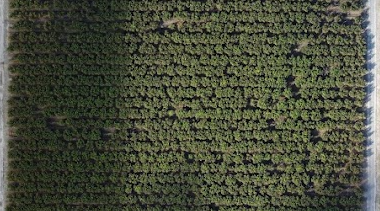
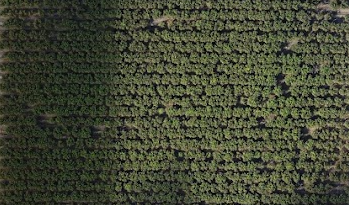
histogram equalization implimented
went from 8.9 stdev with 0.4 mean to 0.2 stdev and 0.03 mean

diff --git a/versions/hufftest.py b/versions/hufftest.py
@@ -22,30 +22,39 @@ from linedrawer import drawlines, drawlinesp
 #v0.3 has issues because of cannying the kmeans
 #when no quantization: kmeans 6 and above causes issues (no images, too much removed etc)
 #with quantization this doesnt occur, k of 12+ still generates WORKING IMAGES, HAZA! i guess.
-#the idea image would always be at 45 degrees. anomalous images have high stdev (0.7) and clean have low (0.08)
+#the ideal image would always be at 45 degrees. anomalous images have high stdev (0.7) and clean have low (0.08)
 
 #default_file = 'sourceimages/window.png' #example with good, but is a png so cant use
 
-default_file = 'sourceimages/bad2-45.png' #example with high standard deviation = bad ( high stdev )
+#default_file = 'sourceimages/bad2-45.png' #example with high standard deviation = bad ( high stdev )
 #default_file = 'sourceimages/bad2.png' #example where being horizontal (or vertical) messes with results. ( low stdev )
 #default_file = 'sourceimages/real2.png' #example of real test thats good ( low stdev )
 
-#default_file = 'sourceimages/real.png' #example of real test thats bad but should be good ( with shadows )
+default_file = 'sourceimages/real.png' #example of real test thats bad but should be good ( with shadows )
 #default_file = 'sourceimages/window3.png' #example of real test ( horrible spaced trees )
 
+#default_file = 'sourceimages/small.png' #example of real test ( horrible spaced trees ) but windowed, so good.
+
+#default_file = 'sourceimages/mess.png' #is anomaly, says its not based on stdev, line count too low = anomoly
+#default_file = 'sourceimages/bent.png' #example of real test thats bad but should be good ( with shadows )
+
 def kmeans(input_image):
+    #A kmeans clusters algorithm that takes in an image (ideally grayscale) and applies a binerization to them.
     print("Kmeans")
     #kmeans ---------------------
+
+    #for when the passed image is actually the name not the array of the image (ie when called first in a modular situation)
+    if isinstance(input_image, str):
+        input_image = cv.imread(input_image) # Loading image
     
-    image = cv.imread(cv.samples.findFile(default_file)) # Loading image
-    image = cv.cvtColor(image, cv.COLOR_BGR2RGB) # Change color to RGB (from BGR) 
+    image = cv.cvtColor(input_image, cv.COLOR_BGR2RGB) # Change color to RGB (from BGR) 
     # Reshaping the image into a 2D array of pixels and 3 color values (RGB) 
     pixel_vals = image.reshape((-1,3)) 
     # Convert to float type only for supporting cv2.kmean
     pixel_vals = np.float32(pixel_vals)
 
     criteria = (cv.TERM_CRITERIA_EPS + cv.TERM_CRITERIA_MAX_ITER, 100, 1.0) #criteria
-    k = 3 # Choosing number of cluster
+    k = 5 # Choosing number of cluster
     retval, labels, centers = cv.kmeans(pixel_vals, k, None, criteria, 100, cv.KMEANS_RANDOM_CENTERS) 
 
     
@@ -84,12 +93,33 @@ def kmeans(input_image):
     # ------------------ kmeans
     return segmented_image #the kmeans image
 
+def histogramEqualization(input_image):
+    #A histogram equalization function that takes in an input image and equalizes the colour variance. 
+    #Recommended by Patrick to fix the issue where some tif have heavy shading due to cliffs/clouds.
+    #Ideally takes in a grayscale image.
+    print("Histogram Equalization")
+
+    #for when the passed image is actually the name not the array of the image (ie when called first in a modular situation)
+    if isinstance(input_image, str):
+        input_image = cv.imread(input_image) # Loading image
+
+    c_image = cv.cvtColor(input_image, cv.COLOR_BGR2GRAY) # convert to grayscale
+    histo_image = cv.equalizeHist(c_image)
+    print("Histogram Equalization Complete")
+    return histo_image
+
 def colourQuantize(input_image):
-    quantize_count = 12
+    #reduces the colour spectrum from 255*255*255 colour variations to 3*3*3 total variations
+    #ideally takes in NON grayscale image, RGB only. (or 3 channel images)
+    quantize_count = 12 #how many variation to reduce to. static value because i planned to try out more than 12 combinations.
     #take in an image and reduce it down to max of 12 channel types, [0 64 128 255] for r,g,b
     print("Colour Quantization")
-    quantized_image = cv.imread(input_image) # Loading image
-    quantized_image = cv.cvtColor(quantized_image, cv.COLOR_BGR2RGB) # Change color to RGB (from BGR) 
+
+    #for when the passed image is actually the name not the array of the image (ie when called first in a modular situation)
+    if isinstance(input_image, str):
+        input_image = cv.imread(input_image) # Loading image
+    
+    quantized_image = cv.cvtColor(input_image, cv.COLOR_BGR2RGB) # Change color to RGB (from BGR) 
 
     if(quantize_count == 12): #default case when you want 12 total channel types
         for n in range(len(quantized_image)):
@@ -125,6 +155,7 @@ def colourQuantize(input_image):
     return quantized_image
 
 def getThetaData(lines):
+    #give a lines list from opencv to get a list of slope values
     #for standard hough lines
     rho_data = []
     theta_data = []
@@ -138,6 +169,7 @@ def getThetaData(lines):
     return theta_data
 
 def getThetaDataP(linesP):
+    #give a lines list from opencv to get a list of slope values
     #for the probabilistic opencv hough line version.
     theta_datap = []
     if linesP is not None:
@@ -154,6 +186,7 @@ def getThetaDataP(linesP):
     return theta_datap
 
 def graphTheta(theta_data):
+    #creates a simple line graph of slope values
     theta_data.sort()
     intervals = []
     for i in range(len(theta_data)):
@@ -173,6 +206,7 @@ def graphTheta(theta_data):
     return 0
 
 def cleanINFdata(data):
+    #simple fix to inf data when determining slope
     for i in range(len(data)):
         if data[i]>100:
             data[i] = 100
@@ -181,14 +215,14 @@ def cleanINFdata(data):
     return data
 
 def main():
-
-    prek = colourQuantize(default_file)
+    # Loads an image
+    src = cv.imread(cv.samples.findFile(default_file))
+    histo = histogramEqualization(src)
+    prek = colourQuantize(src)
     #kmeans ---------------------
     kmean_image = kmeans(prek)
     # ------------------ kmeans
     
-    # Loads an image
-    src = cv.imread(cv.samples.findFile(default_file))
     #output canny (not good)
     #easy placeholder until morphological pruning
     dst = cv.Canny(kmean_image, 20, 100, None, 3)
@@ -202,7 +236,7 @@ def main():
     drawlines(cdst,lines)
     
     #draw lines on image - probabalistic
-    linesP = cv.HoughLinesP(dst, 1, np.pi / 180, 50, None, 30, 10)
+    linesP = cv.HoughLinesP(dst, 1, np.pi / 180, 50, None, 50, 10)
     drawlinesp(cdstP,linesP)
 
     cv.imshow("Original Source", src)
@@ -232,14 +266,15 @@ def main():
     cv.waitKey()
     return 0
     
-def quantizetester():
-    test_image = colourQuantize(default_file)
-    cv.imshow("output", test_image)
-    src = cv.imread(cv.samples.findFile(default_file))
-    cv.imshow("input", src)
-    cv.waitKey()
+def simpletest():
+    test_image = histogramEqualization(default_file)
+    #cv.imshow("output", test_image)
+    #src = cv.imread(cv.samples.findFile(default_file))
+    #cv.imshow("input", src)
+    #cv.waitKey()
     return 0
 
 
 if __name__ == "__main__":
+    #simpletest()
     main()
